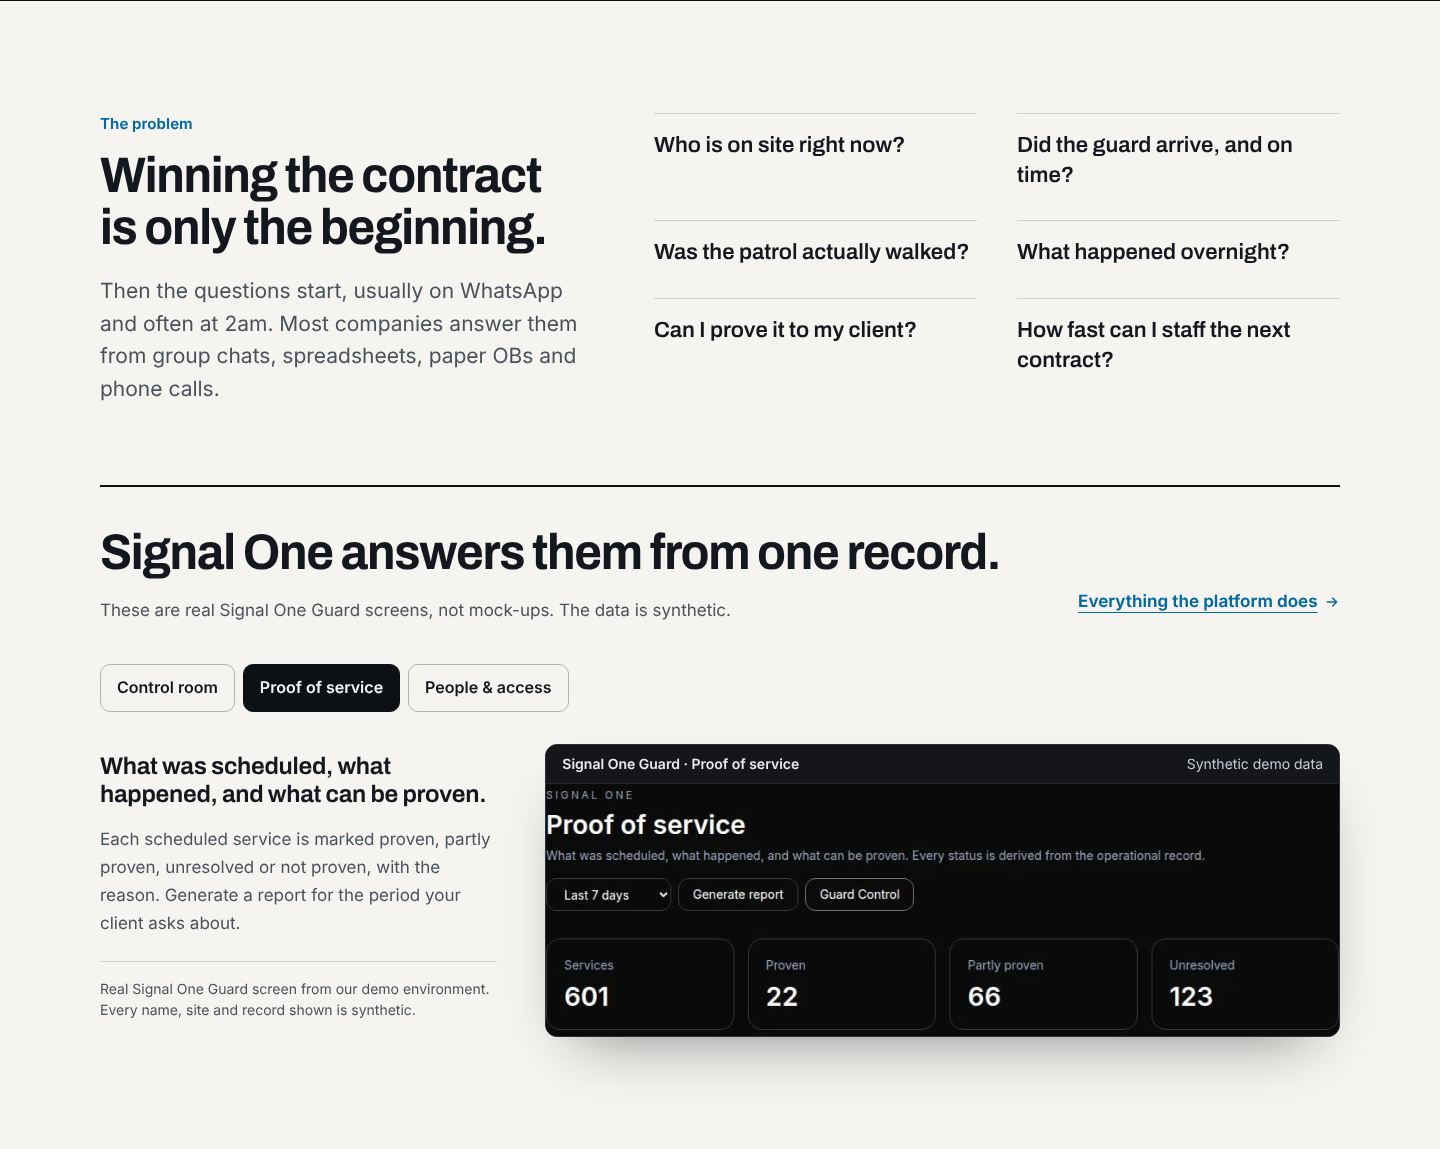
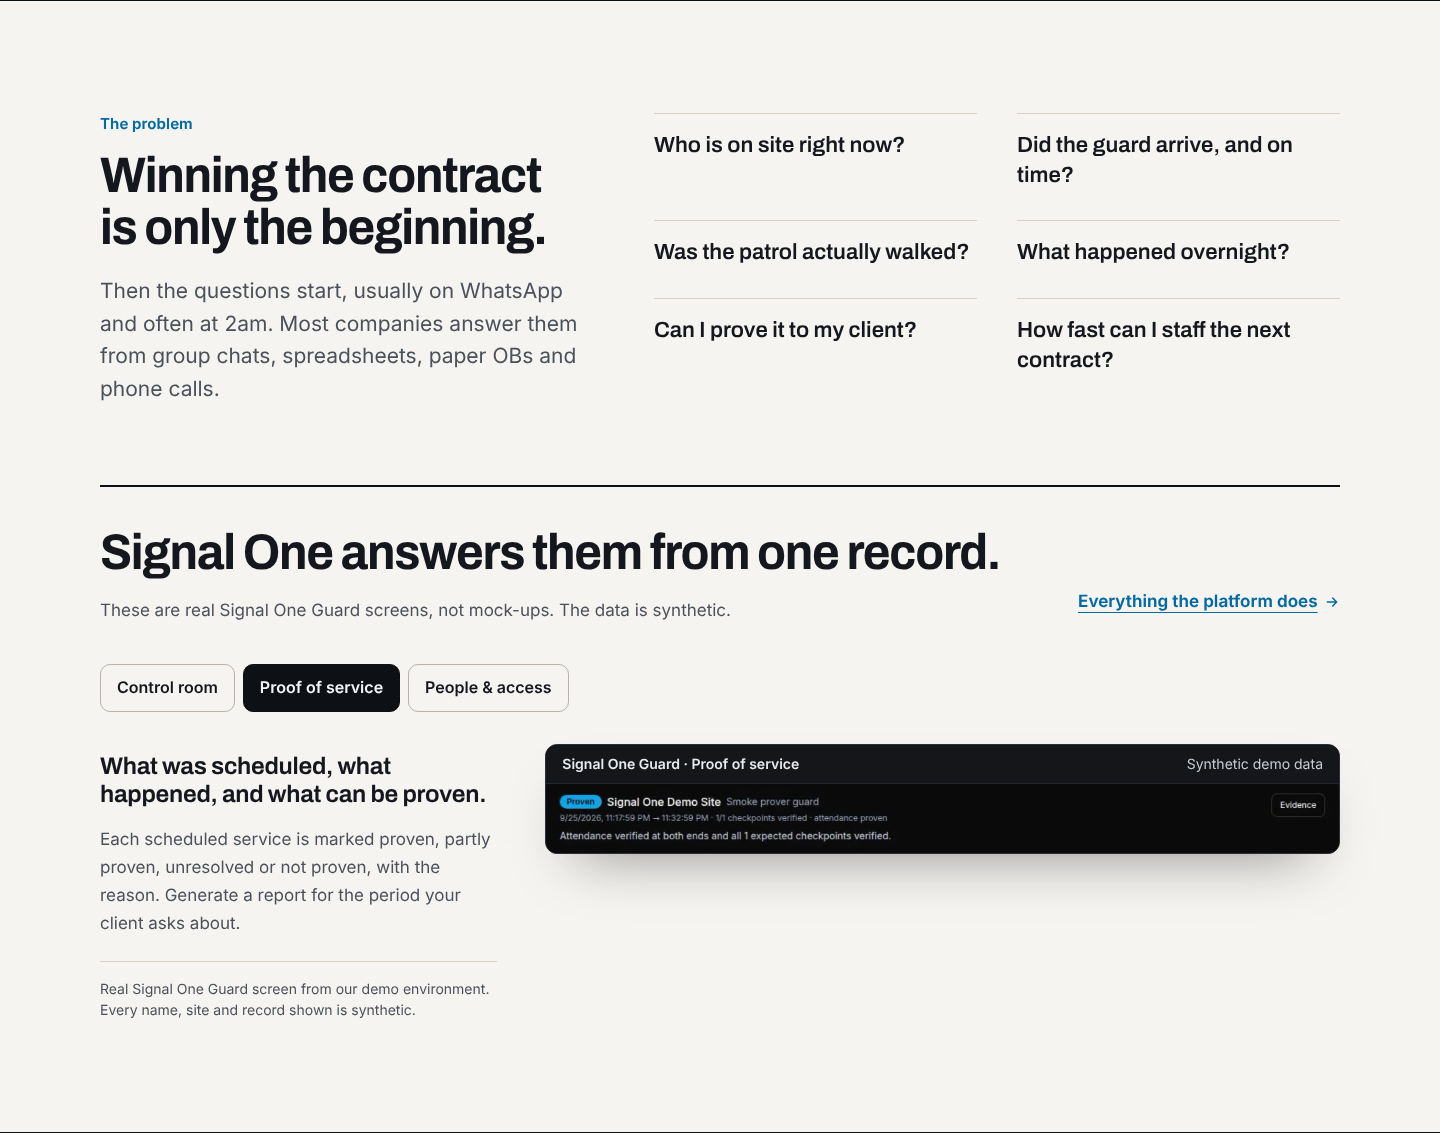
Product crops: one SOS card and one Proven record, no aggregate counts
Claude-Session: https://claude.ai/code/session_01488kUnecEfbpVS4RVkJq7U

diff --git a/app/lib/productProof.ts b/app/lib/productProof.ts
@@ -12,8 +12,8 @@ import controlRoomDesktop from "../../public/images/product-proof/crops/control-
 import controlRoomMobile from "../../public/images/product-proof/crops/control-room-mobile.webp";
 import peopleDesktop from "../../public/images/product-proof/crops/people-access-desktop.webp";
 import peopleMobile from "../../public/images/product-proof/crops/people-access-mobile.webp";
-import proofSummaryDesktop from "../../public/images/product-proof/crops/proof-summary-desktop.webp";
-import proofSummaryMobile from "../../public/images/product-proof/crops/proof-summary-mobile.webp";
+import proofRecordDesktop from "../../public/images/product-proof/crops/proof-record-desktop.webp";
+import proofRecordMobile from "../../public/images/product-proof/crops/proof-record-mobile.webp";
 import type { StaticImageData } from "next/image";
 
 export type ProofShot = {
@@ -37,12 +37,12 @@ export const proofViews: ProofView[] = [
     tab: "Control room",
     screen: "Control room",
     title: "Every SOS in a queue, with acknowledge, navigate and resolve.",
-    body: "Live SOS first, then late SOS, incidents and anything else that needs action. Positions show on the map with their age.",
+    body: "An SOS lands in the queue. The control room acknowledges, navigates and resolves it, and every step is recorded.",
     shots: [
       {
         desktop: controlRoomDesktop,
         mobile: controlRoomMobile,
-        alt: "Signal One Guard Control room queue listing live emergency alerts from a guard at a demo site, each with Navigate, Acknowledge and Resolve buttons, beside a map of last-known positions",
+        alt: "Signal One Guard Control room: a live Emergency alert from a guard at a demo site with Navigate, Acknowledge and Resolve buttons",
       },
     ],
   },
@@ -54,9 +54,9 @@ export const proofViews: ProofView[] = [
     body: "Each scheduled service is marked proven, partly proven, unresolved or not proven, with the reason. Generate a report for the period your client asks about.",
     shots: [
       {
-        desktop: proofSummaryDesktop,
-        mobile: proofSummaryMobile,
-        alt: "Signal One Guard Proof of service summary with a Generate report button and counts of services, proven, partly proven, unresolved and not proven",
+        desktop: proofRecordDesktop,
+        mobile: proofRecordMobile,
+        alt: "Signal One Guard Proof of service record marked Proven, with the attendance and checkpoint line, the reason attendance was verified, and an Evidence button",
       },
     ],
   },

diff --git a/app/components/ProductProof.tsx b/app/components/ProductProof.tsx
@@ -22,11 +22,13 @@ export function ProofImage({ shot, priority = false }: { shot: ProofShot; priori
 
   return (
     <picture
-      className="block"
+      className="mx-auto block max-w-[var(--mw-m)] md:max-w-[var(--mw-d)]"
       style={
         {
           "--ar-m": ratio(shot.mobile.width, shot.mobile.height),
           "--ar-d": ratio(shot.desktop.width, shot.desktop.height),
+          "--mw-m": shot.mobile.width + "px",
+          "--mw-d": shot.desktop.width + "px",
         } as React.CSSProperties
       }
     >
